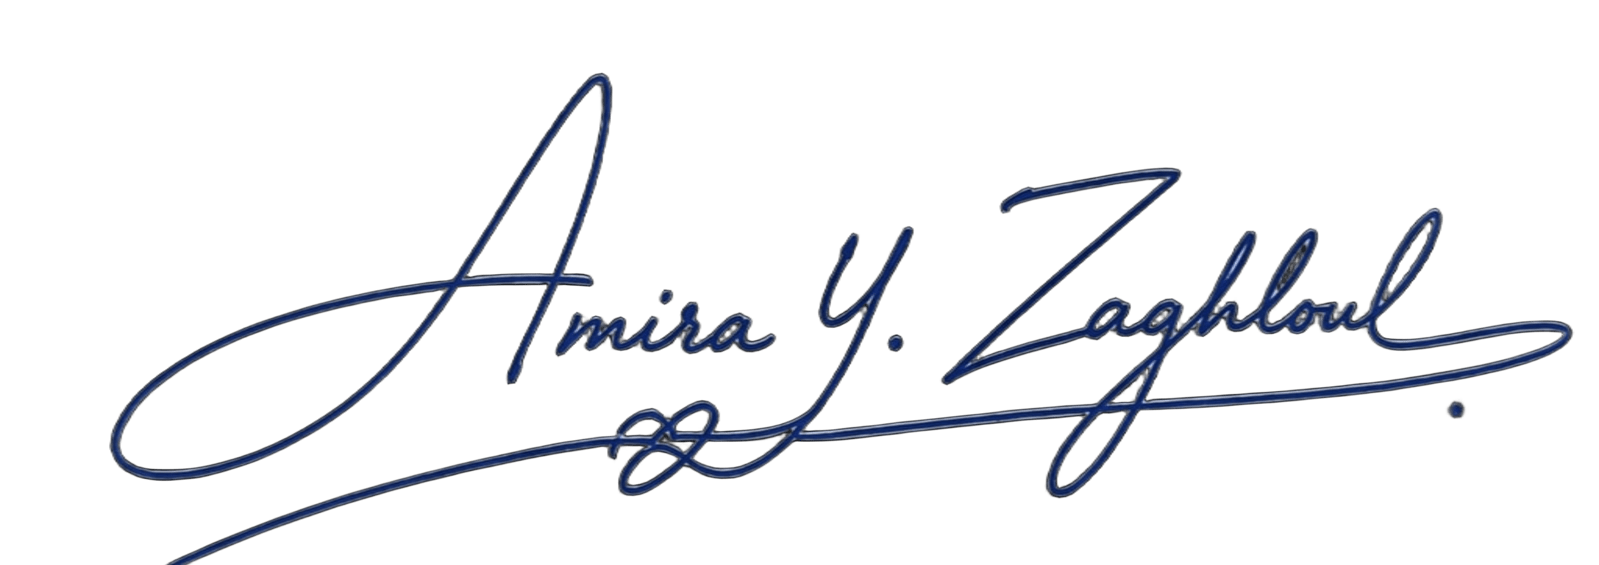
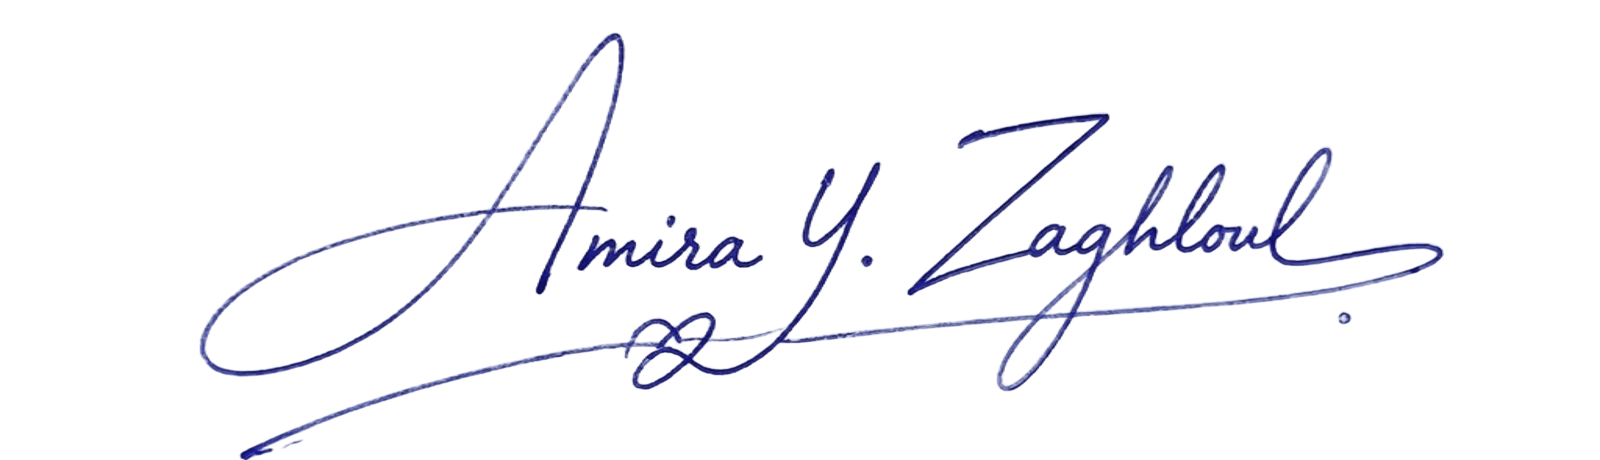
Add files via upload

Changed region(s): [[0.0613, 0.0609, 1.0, 1.0], [0.5822, 0.2739, 0.6435, 0.3348], [0.3984, 0.4565, 0.429, 0.487]]

diff --git a/templates/_sheet.html b/templates/_sheet.html
@@ -177,7 +177,7 @@
                             </div>
                             <div class="mark mark-stamp" id="stamp-mark" data-position="{{ form.stamp_position if form else 'left' }}" {% if form and not form.show_stamp %}hidden{% endif %}>
                                 <span class="mark-body">
-                                    <img id="stamp-image" alt="الختم الرسمي" {% if stamp_src %}src="{{ stamp_src }}" class="is-visible"{% endif %}>
+                                    <img id="stamp-image" width="220" alt="الختم الرسمي" class="mark-stamp-img{% if stamp_src %} is-visible{% endif %}" {% if stamp_src %}src="{{ stamp_src }}"{% endif %}>
                                     <span class="mark-placeholder" id="stamp-placeholder" {% if stamp_src %}hidden{% endif %}>الختم الرسمي</span>
                                 </span>
                             </div>

diff --git a/static/css/form.css b/static/css/form.css
@@ -625,7 +625,7 @@
 
 .marks-area {
     position: relative;
-    flex: 0 0 25.5rem;
+    flex: 0 0 30rem;
     min-height: 9.5rem;
 }
 
@@ -646,6 +646,17 @@
 
 .mark-stamp {
     --mark-x: 15.5rem;
+    width: 220px;
+}
+
+.mark-stamp .mark-body {
+    width: 220px;
+    height: 8rem;
+}
+
+.mark-stamp .mark-body img {
+    width: 220px;
+    max-width: 100%;
 }
 
 .mark-signature[data-position="center"] {
@@ -666,6 +677,11 @@
 .mark[data-position="right"] {
     right: var(--mark-x);
     left: auto;
+}
+
+.mark-stamp[data-position="center"] {
+    left: calc(50% - 110px);
+    margin-left: 0;
 }
 
 .mark[hidden] {
@@ -1058,8 +1074,8 @@
     }
 
     .mark-stamp .mark-body {
-        width: 11rem;
-        height: 6.6rem;
+        width: 220px;
+        height: 8rem;
     }
 
     .mark-body img.is-visible {
